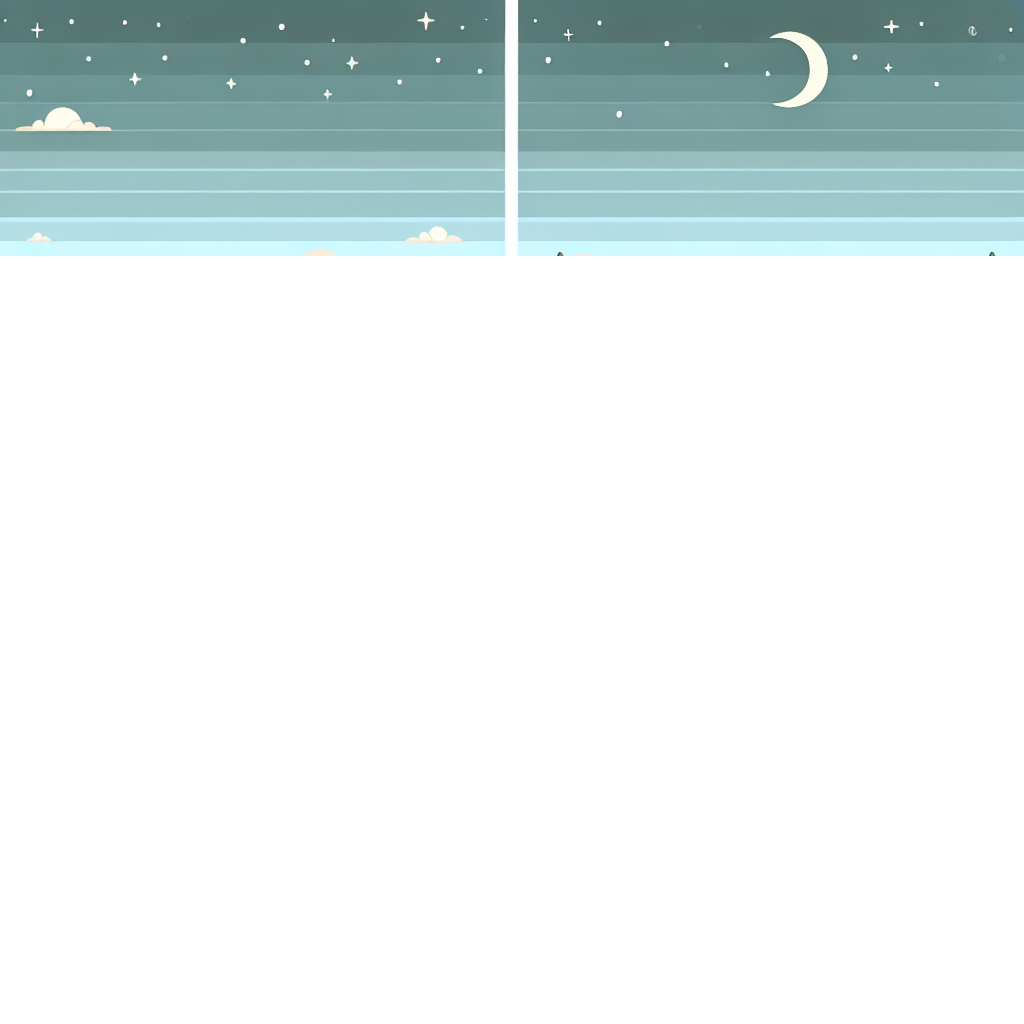
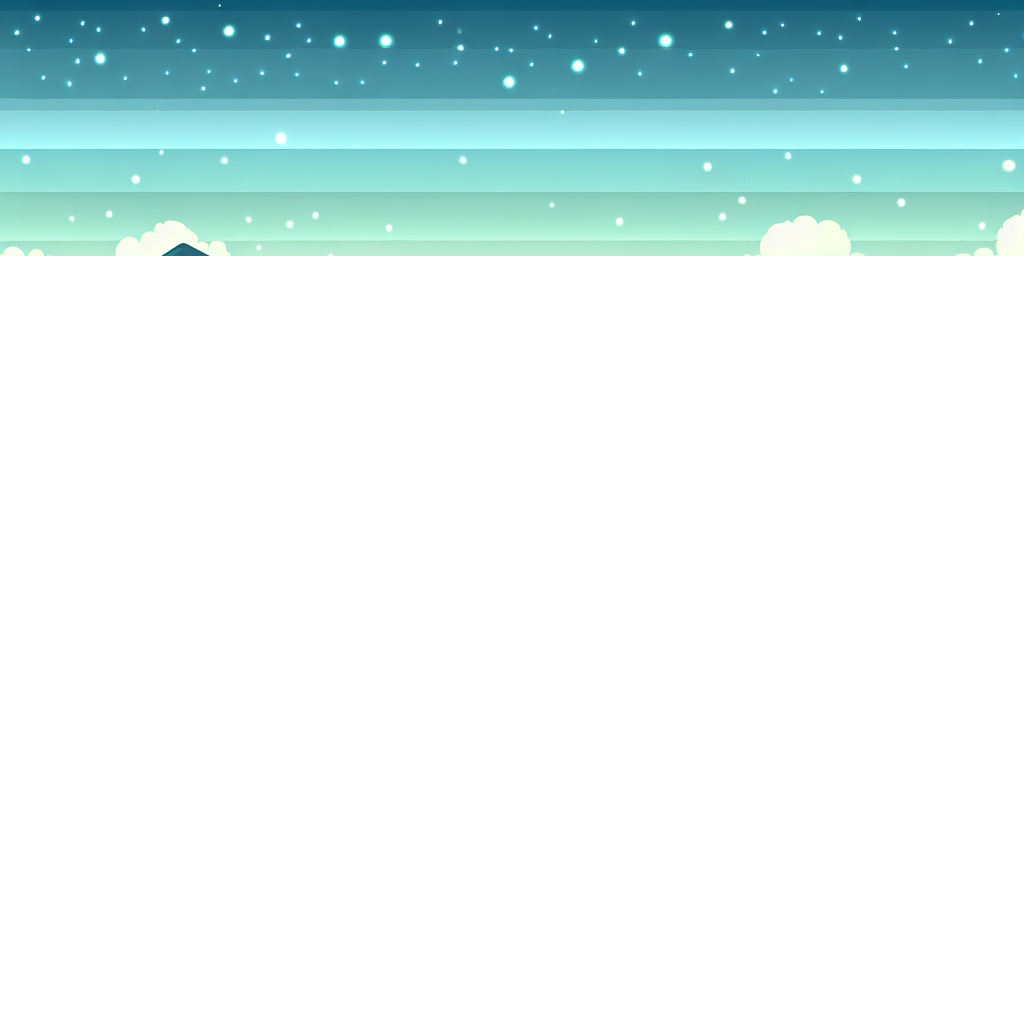
🦀Generated files for 2025-06-09🦀

Changed region(s): [[0.0, 0.0, 1.0, 0.25]]

diff --git a/README.md b/README.md
@@ -19,4 +19,4 @@ Additionally, the GIF generation pipeline may produce totally botched results wh
 
 ![image](images/image_current.png)
 
-**Prompt:** Background for 2d side-scrolling game, which have 4 separate horizontal layers for parallax scrolling. Layer 1: distant sky with subtle gradient and faint stars, tile seamlessly. Layer 2: rolling hills with gentle curves and sparse trees, tile seamlessly. Layer 3: closer trees and bushes with varied shapes, tile seamlessly. Layer 4: detailed ground with rocks and grass patches, tile seamlessly.
+**Prompt:** Background for 2d side-scrolling game, which have 4 separate horizontal layers. Layer 1: Distant mountains with soft gradients and faint stars. Layer 2: Rolling hills with sparse trees and distant clouds. Layer 3: Closer trees, bushes, and rocky formations. Layer 4: Foreground grass, small rocks, and scattered flowers for depth.
